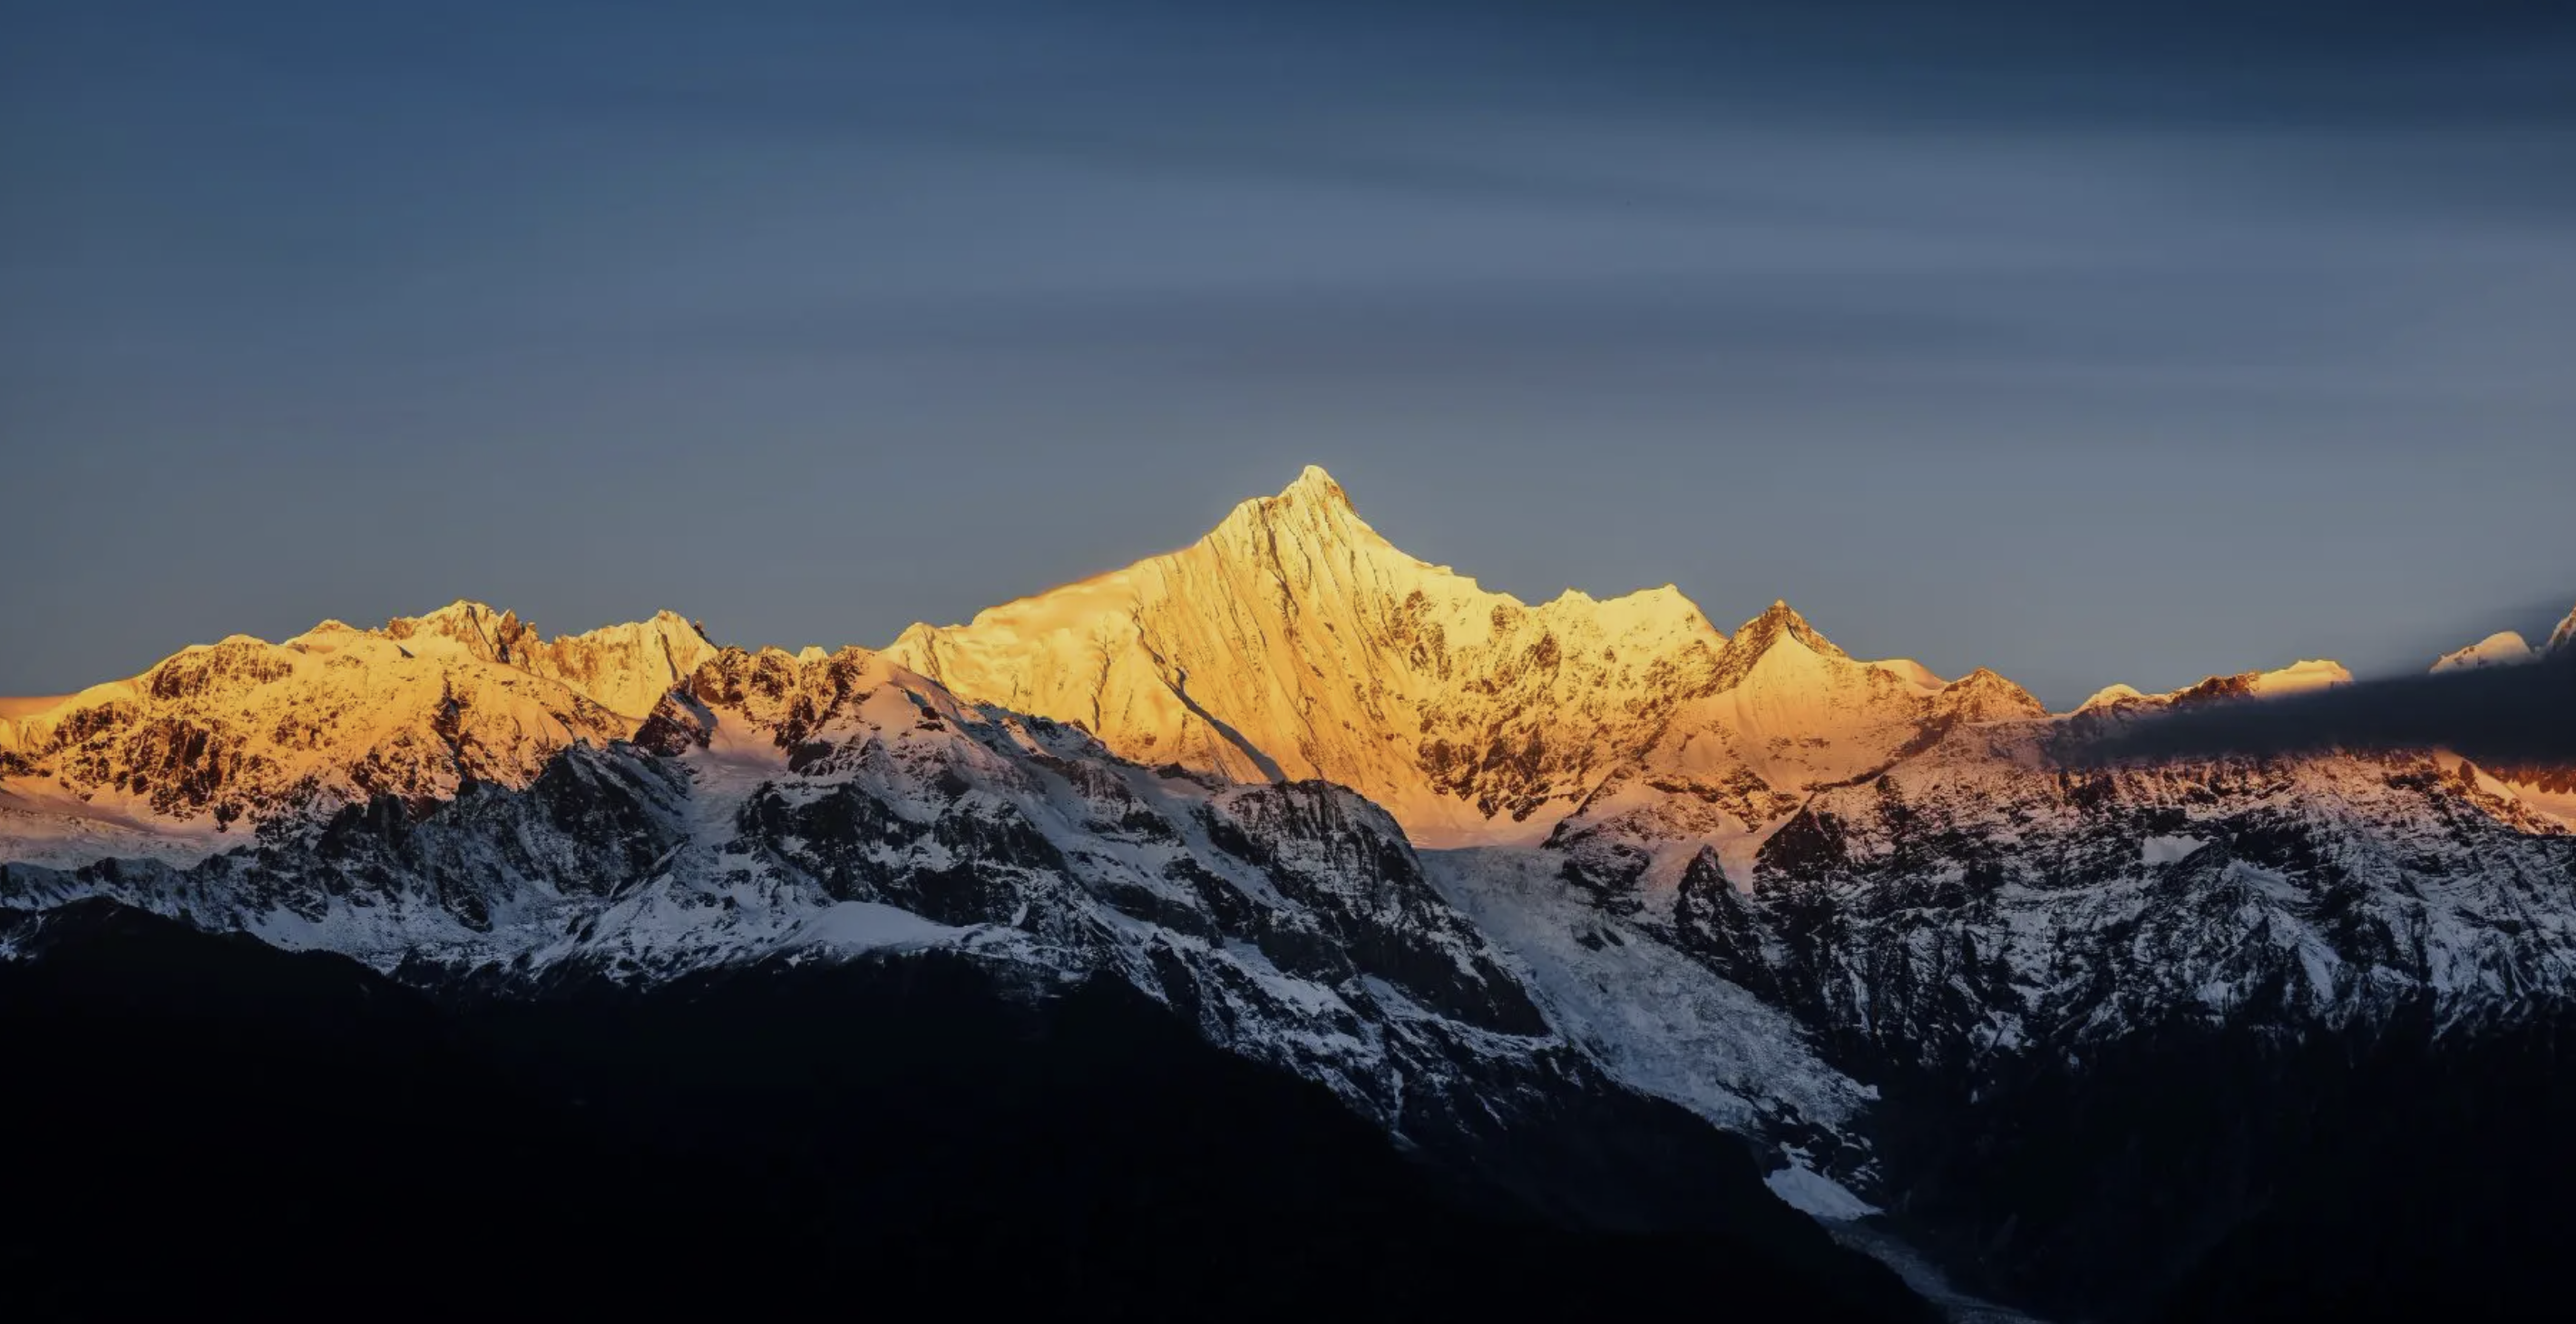
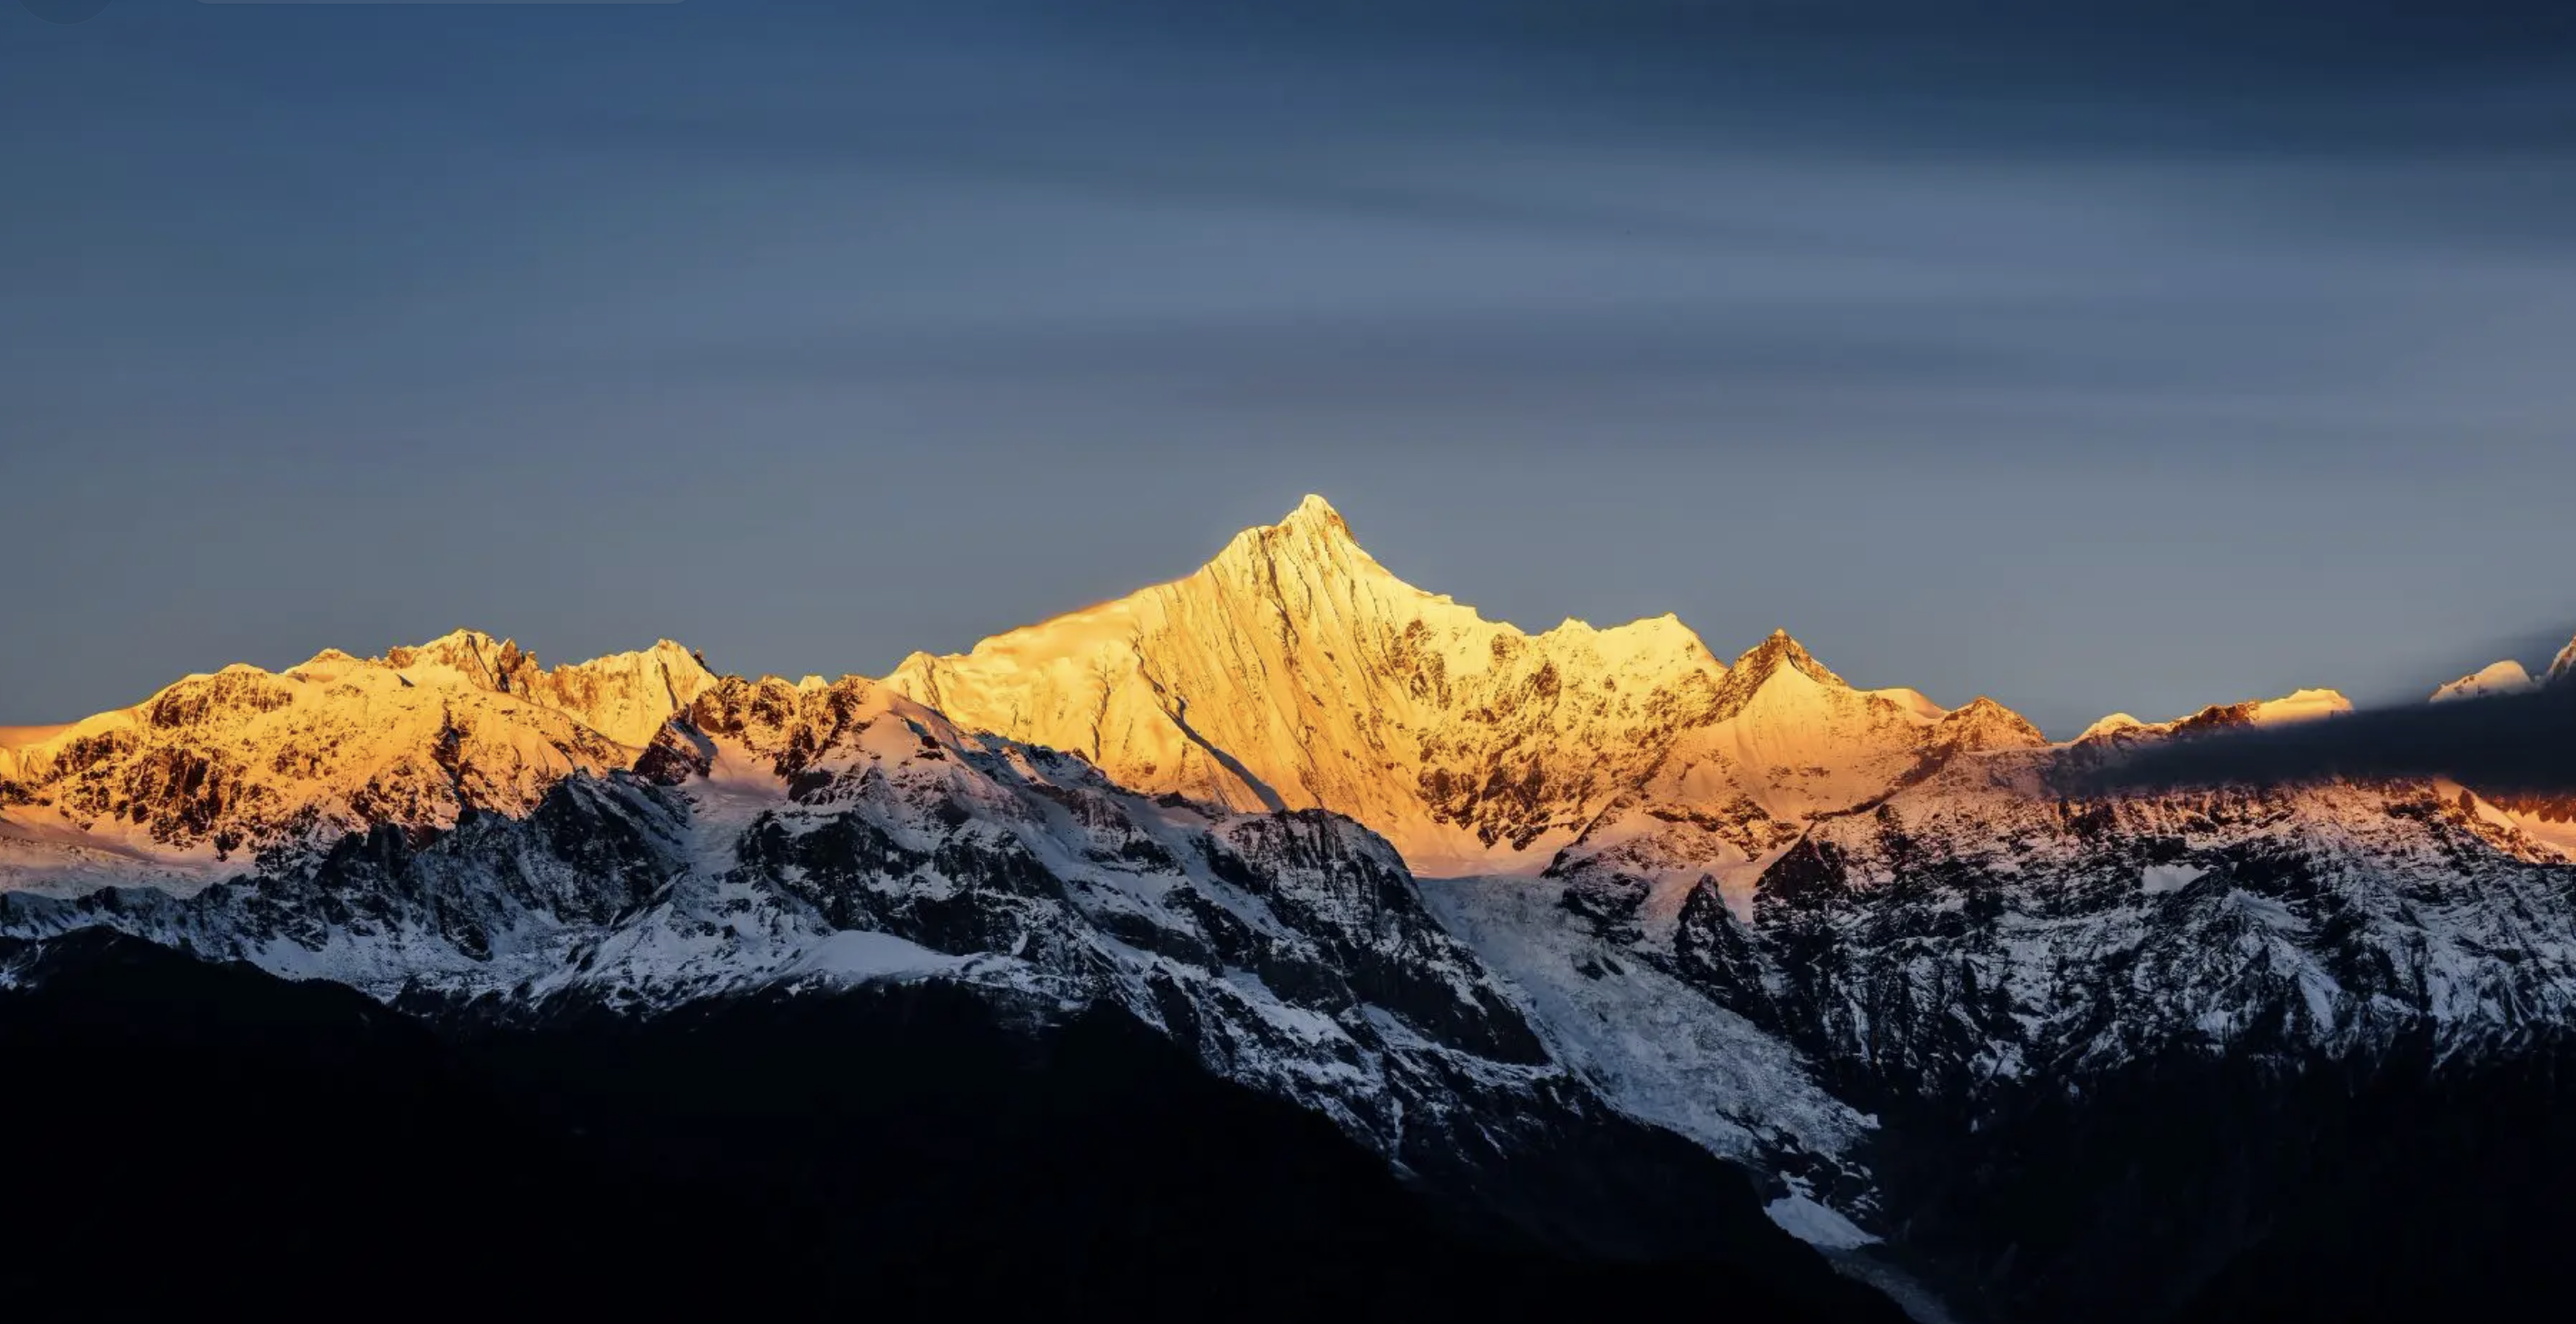
earth

Changed region(s): [[0.0, 0.339, 1.0, 1.0]]

diff --git a/akastyle.css b/akastyle.css
@@ -8,7 +8,7 @@
 section {
   position: relative;
 
-  background: url(day.PNG);
+  background: url(day2.PNG);
   background-size: cover;
   background-position-x: center;
   min-height: 100vh;
